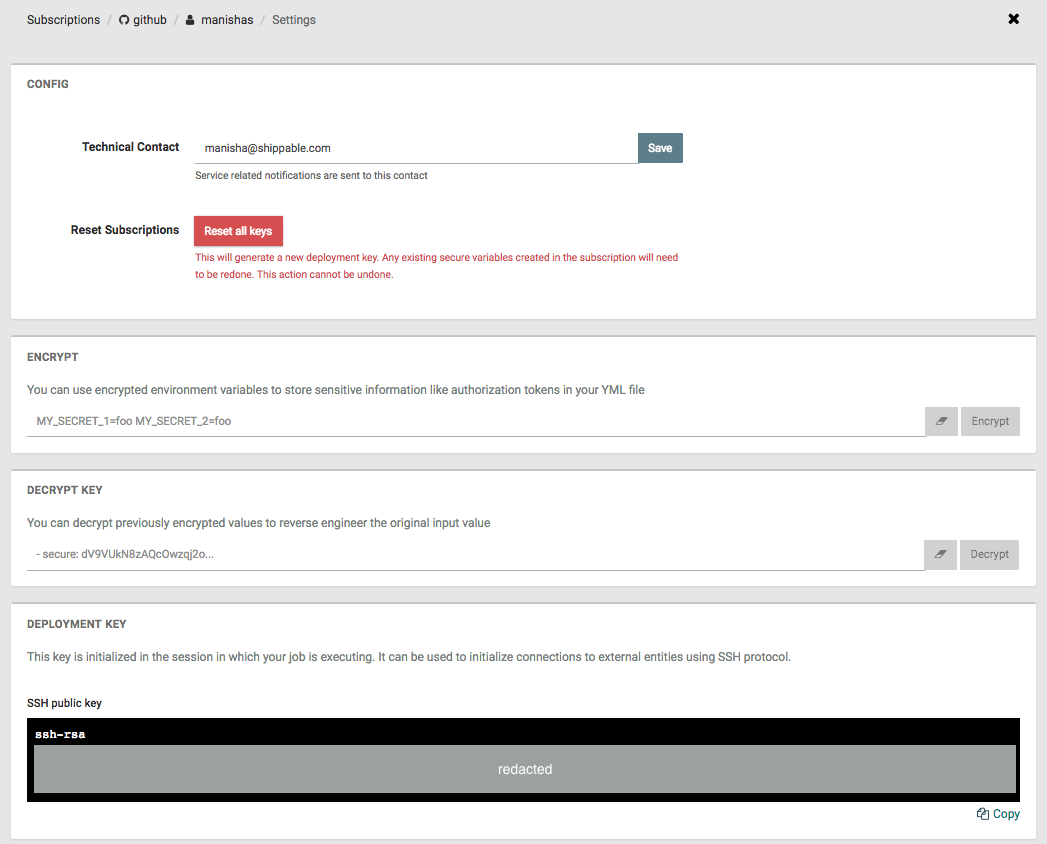
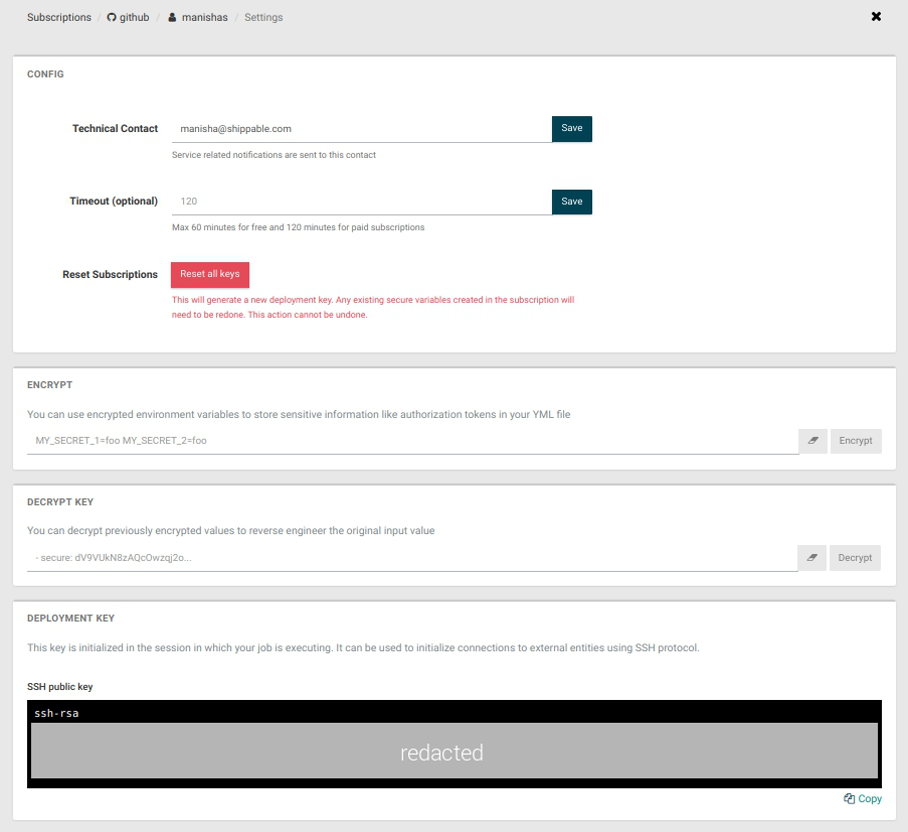
update platform/management/subscriptions/settings docs for setting timeout at subscription level #1016

diff --git a/sources/platform/management/subscription/node-pools.md b/sources/platform/management/subscription/node-pools.md
@@ -70,7 +70,7 @@ of the Node Pools page. This will open the **ADD NODE POOL** page.
   upper limit is set by the number of licenses that are available at the
   subscription level for the type of selected node pool
 
-* **Timeout** is the maximum time(in minutes) after which you want your CI or runSh jobs to  timeout. This timeout is used when your [CI project](/platform/management/project/settings/) or [runSh job](/platform/workflow/job/runsh/) do not have any timeout specified. If this is also not provided then timeout set at Subscription level or default will be used, in that order. Default value for timeout is 60 minutes for free users and 120 minutes for paid users.
+* **Timeout** is the maximum time(in minutes) after which you want your CI or runSh jobs to  timeout. This timeout is used when your [CI project](/platform/management/project/settings/) or [runSh job](/platform/workflow/job/runsh/) do not have any timeout specified. If this is also not provided then timeout set at [Subscription](/platform/management/subscription/settings/) level or default will be used, in that order. Default value for timeout is 60 minutes for free users and 120 minutes for paid users.
 
 ### Updating node pools
 You can edit any node pool by clicking on the `Edit` button the node pool
@@ -92,7 +92,7 @@ header. This will take you to the **Edit Node Pool** page.
   upper limit is set by the number of licenses that are available at the
   subscription level for the type of selected node pool
 
-* **Timeout** is the maximum time(in minutes) after which you want your CI or runSh jobs to  timeout. This timeout is used when your [CI project](/platform/management/project/settings/) or [runSh job](/platform/workflow/job/runsh/) do not have any timeout specified. If this is also not provided then timeout set at Subscription level or default will be used, in that order. Default value for timeout is 60 minutes for free users and 120 minutes for paid users.
+* **Timeout** is the maximum time(in minutes) after which you want your CI or runSh jobs to  timeout. This timeout is used when your [CI project](/platform/management/project/settings/) or [runSh job](/platform/workflow/job/runsh/) do not have any timeout specified. If this is also not provided then timeout set at [Subscription](/platform/management/subscription/settings/) level or default will be used, in that order. Default value for timeout is 60 minutes for free users and 120 minutes for paid users.
 
 ### Adding nodes to node pools
 * [On-demand nodes](/platform/runtime/nodes/#on-demand-nodes) automatically get

diff --git a/sources/platform/management/project/settings.md b/sources/platform/management/project/settings.md
@@ -67,7 +67,7 @@ This is used to create a custom URL to clone a project. This can be used to clon
 
 * **Sync**: Synchronize your project with source control system. Usually used to fetch new branches in your source control that are not yet reflected in Shippable
 
-* **Timeout**: This sets the maximum time(in minutes) after which you want your CI job to timeout. If this is not provided then timeout set at [Node Pool](/platform/management/subscription/node-pools/) level, Subscription level or default will be used, in that order. Default value for timeout is 60 minutes for free users and 120 minutes for paid users.
+* **Timeout**: This sets the maximum time(in minutes) after which you want your CI job to timeout. If this is not provided then timeout set at [Node Pool](/platform/management/subscription/node-pools/) level, [Subscription](/platform/management/subscription/settings/) level or default will be used, in that order. Default value for timeout is 60 minutes for free users and 120 minutes for paid users.
 
 * **Reset Project**: This will reset all the keys, passwords that Shippable internally creates. If you are using any of these externally, you will need to update those systems as well. You will also need to re-encrypt any secure variables you encrypted on this Project Settings page.
 

diff --git a/sources/platform/workflow/job/runsh.md b/sources/platform/workflow/job/runsh.md
@@ -113,7 +113,7 @@ A description of the job YML structure and the tags available is in the [jobs se
   the behavior of the job.
     * `nodePool` --  The node pool on which the job should run. For detailed
       explanation, read about [node pools](/platform/management/subscription/node-pools/).
-    * `timeoutMinutes` -- Optional. This sets the maximum time(in minutes) after which you want your runSh job to timeout. If this is not provided then timeout set at [Node Pool](/platform/management/subscription/node-pools/) level, Subscription level or default will be used, in that order. Default value for timeout is 60 minutes for free users and 120 minutes for paid users.
+    * `timeoutMinutes` -- Optional. This sets the maximum time(in minutes) after which you want your runSh job to timeout. If this is not provided then timeout set at [Node Pool](/platform/management/subscription/node-pools/) level, [Subscription](/platform/management/subscription/settings/) level or default will be used, in that order. Default value for timeout is 60 minutes for free users and 120 minutes for paid users.
     * `container` -- Optional. Boolean field to decide whether the job should
       run inside a container or on the host. `true` by default
   after which the job will be automatically stopped.

diff --git a/sources/platform/management/subscription/settings.md b/sources/platform/management/subscription/settings.md
@@ -29,6 +29,12 @@ While this is optional, we **highly recommend** you set a technical contact for 
 
 In the **Technical Contact** section, enter the email address and click on **Save**.
 
+## Set timeout
+
+This is the maximum time(in minutes) after which you want your CI or runSh jobs to  timeout. This timeout is used when your [CI project](/platform/management/project/settings/) or [runSh job](/platform/workflow/job/runsh/) and the [Node Pool](/platform/management/subscription/node-pools/) on which the CI or runSh job is running do not have any timeout specified. If this is also not provided then default value will be set. Default value for timeout is 60 minutes for free users and 120 minutes for paid users.
+
+In the **Timeout(optional)** section, enter the timeout value and click on **Save**.
+
 ## Reset deployment key
 
 You can create a new deployment key for your Subscription by clicking on **Reset all keys**. Please note that you will need to re-encrypt any secure variables you created through Subscription Settings if you reset your keys.
